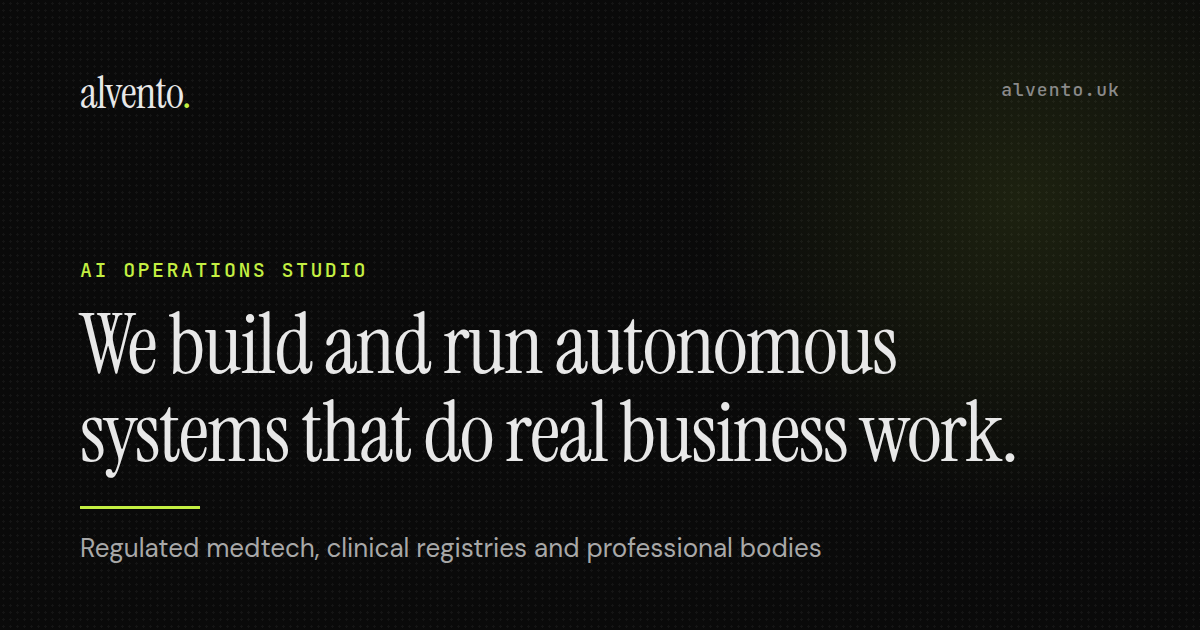
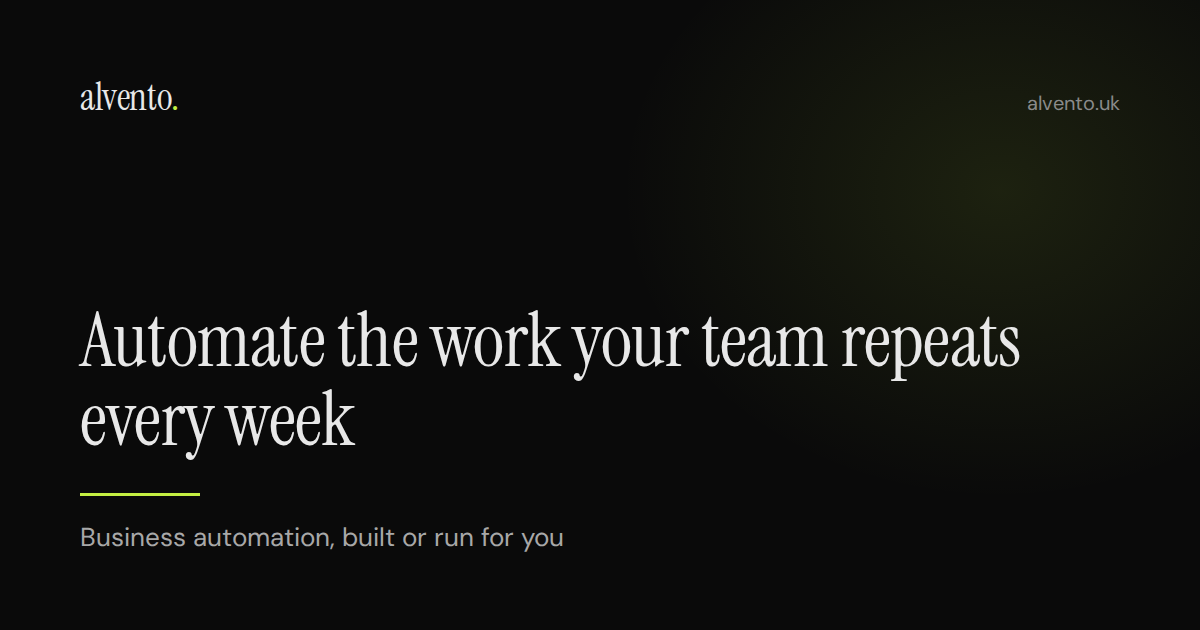
fix: new share image for the repositioned homepage

diff --git a/scripts/og/default-card.html b/scripts/og/default-card.html
@@ -1,0 +1,23 @@
+<!doctype html><html><head><meta charset="utf-8">
+<link href="https://fonts.googleapis.com/css2?family=Instrument+Serif&family=DM+Sans:wght@400;500&display=block" rel="stylesheet">
+<style>
+*{margin:0;padding:0;box-sizing:border-box}
+html,body{width:1200px;height:630px}
+body{background:#0a0a0a;color:#e8e8e8;font-family:'DM Sans',sans-serif;position:relative;overflow:hidden}
+body::before{content:'';position:absolute;right:-180px;top:-120px;width:760px;height:620px;background:radial-gradient(closest-side,rgba(196,240,66,.10),rgba(196,240,66,0));}
+.top{position:absolute;left:80px;right:80px;top:72px;display:flex;justify-content:space-between;align-items:baseline}
+.logo{font-family:'Instrument Serif',serif;font-size:38px;letter-spacing:-.01em}
+.logo span{color:#c4f042}
+.domain{font-size:20px;color:#8a8a8a}
+.main{position:absolute;left:80px;right:80px;bottom:76px}
+h1{font-family:'Instrument Serif',serif;font-weight:400;font-size:76px;line-height:1.04;letter-spacing:-.01em;max-width:1000px}
+.rule{width:120px;height:3px;background:#c4f042;margin:34px 0 24px}
+.sub{font-size:26px;color:#a8a8a8}
+</style></head><body>
+<div class="top"><div class="logo">alvento<span>.</span></div><div class="domain">alvento.uk</div></div>
+<div class="main">
+  <h1>Automate the work your team repeats every week</h1>
+  <div class="rule"></div>
+  <p class="sub">Business automation, built or run for you</p>
+</div>
+</body></html>

diff --git a/index.html b/index.html
@@ -10,11 +10,11 @@
 <meta name="description" content="Alvento designs automations around how your business already works, from social content in every language to digital loyalty cards. We run them for you or build them for you to own.">
 <meta property="og:title" content="Alvento: Business automation, built or run for you">
 <meta property="og:description" content="Alvento designs automations around how your business already works, from social content in every language to digital loyalty cards. We run them for you or build them for you to own.">
-<meta property="og:image" content="https://alvento.uk/og/default.png">
+<meta property="og:image" content="https://alvento.uk/og/default.png?v=20261107">
 <meta property="og:url" content="https://alvento.uk">
 <meta property="og:type" content="website">
 <meta name="twitter:card" content="summary_large_image">
-<meta name="twitter:image" content="https://alvento.uk/og/default.png">
+<meta name="twitter:image" content="https://alvento.uk/og/default.png?v=20261107">
 <meta name="indexnow" content="b3a2c1d8e9f4a7b0c3d5e6f1a8b9c2d4">
 <link rel="preconnect" href="https://fonts.googleapis.com">
 <link rel="preconnect" href="https://fonts.gstatic.com" crossorigin>

diff --git a/blog/staamp-deli-pilot.html b/blog/staamp-deli-pilot.html
@@ -275,11 +275,11 @@
 }
 </script>
 <meta property="og:type" content="article">
-<meta property="og:image" content="https://alvento.uk/og/default.png">
+<meta property="og:image" content="https://alvento.uk/og/default.png?v=20261107">
 <meta property="og:image:width" content="1200">
 <meta property="og:image:height" content="630">
 <meta name="twitter:card" content="summary_large_image">
-<meta name="twitter:image" content="https://alvento.uk/og/default.png">
+<meta name="twitter:image" content="https://alvento.uk/og/default.png?v=20261107">
 <script async src="https://www.googletagmanager.com/gtag/js?id=G-N94LC333HG"></script>
 <script>
         window.dataLayer = window.dataLayer || [];
